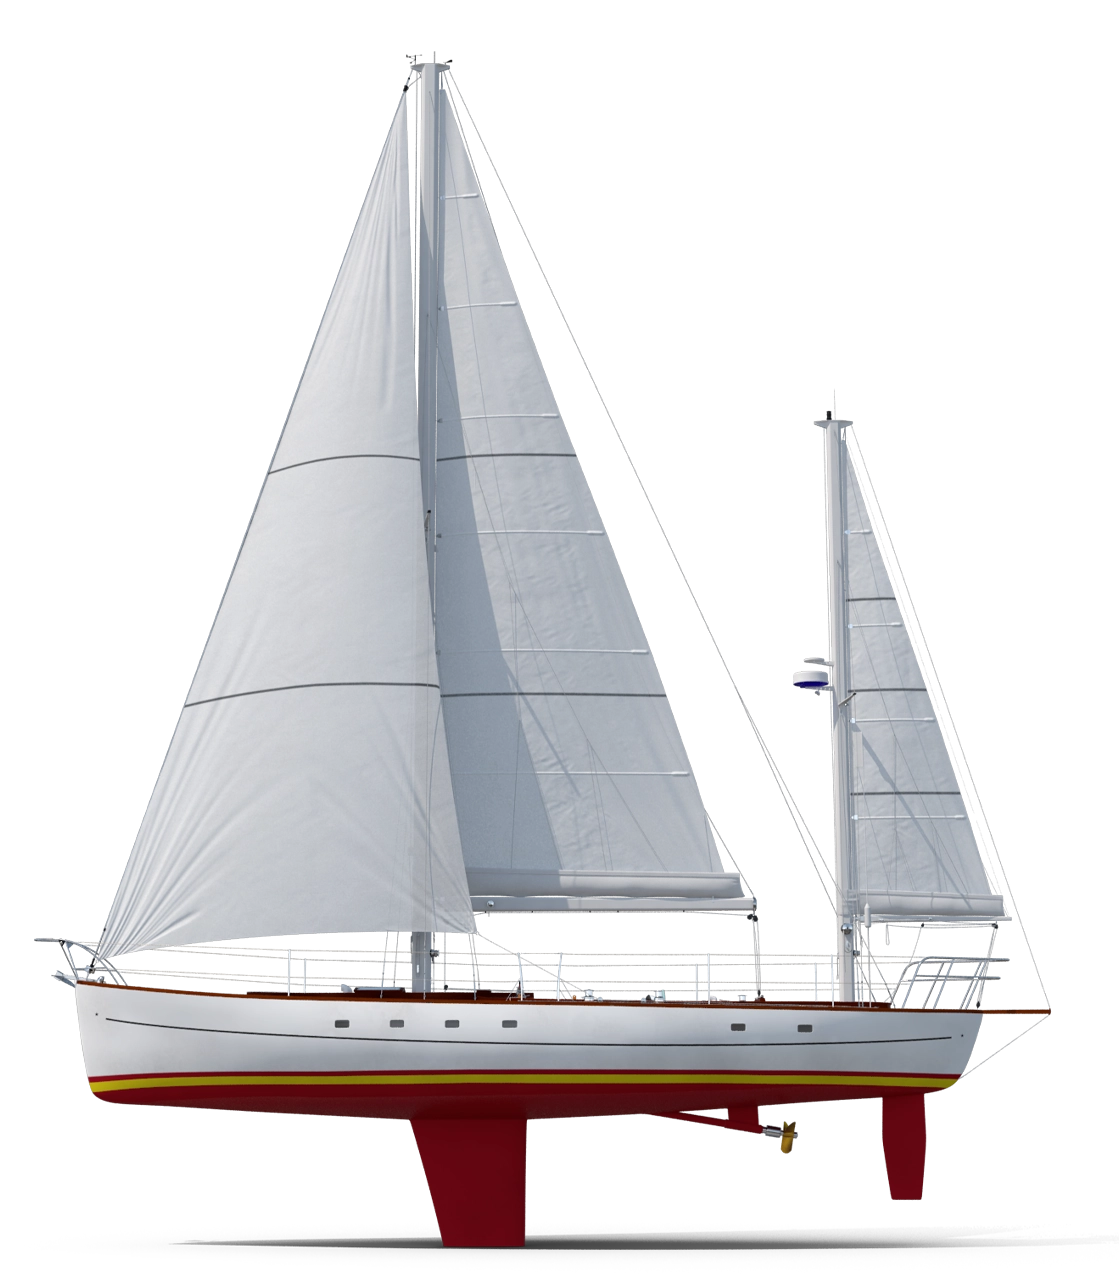
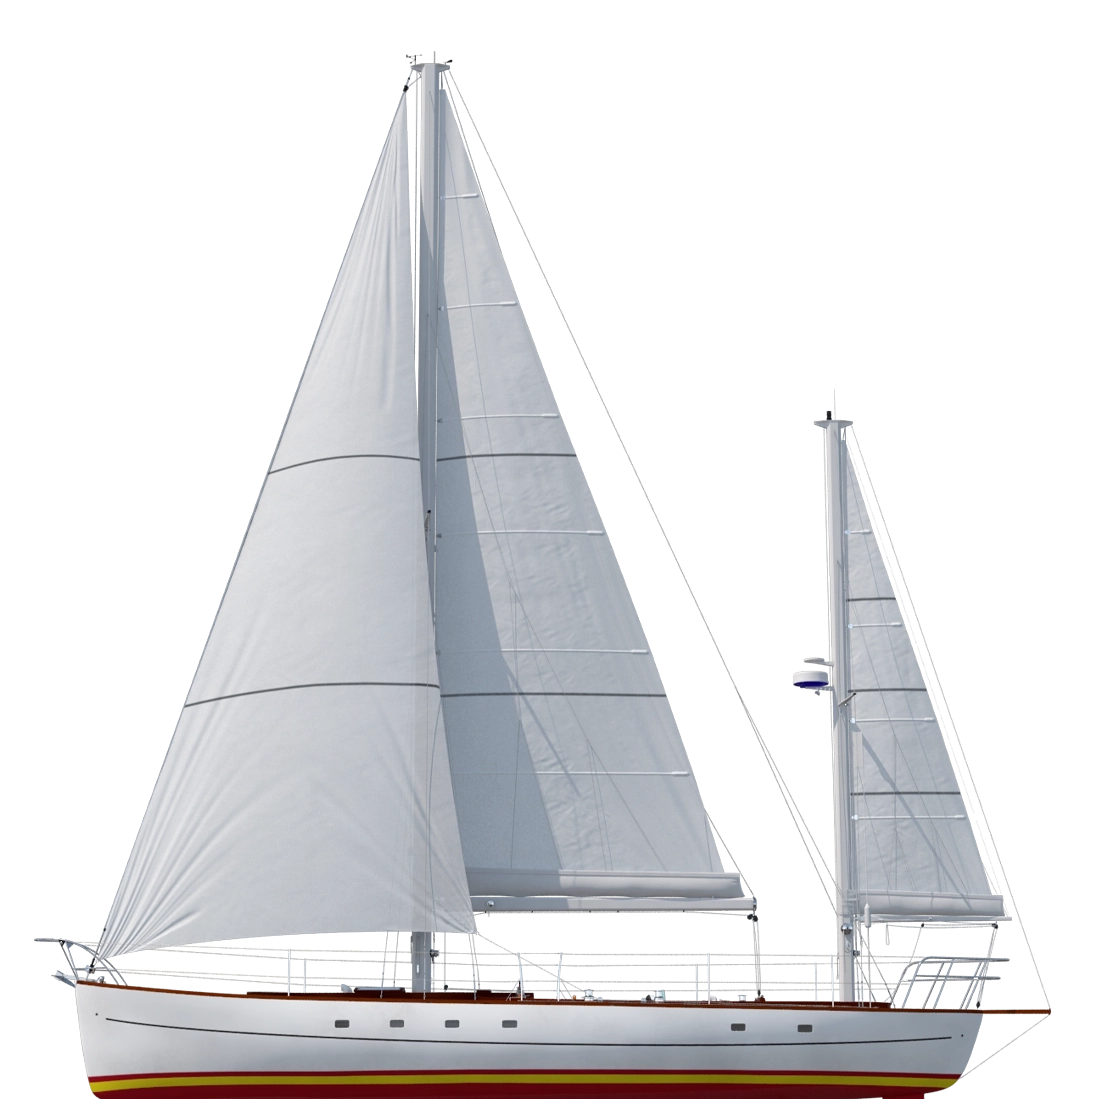
animate sailboat

Changed region(s): [[0.0304, 0.0309, 0.9419, 1.0]]

diff --git a/src/components/SectionHero.vue b/src/components/SectionHero.vue
@@ -49,13 +49,25 @@ section {
   top: 60vh;
   z-index: 3;
 }
+@keyframes sail {
+  0% {
+    transform: translateX(100%);
+  }
+  100% {
+    transform: translateX(-100vw);
+  }
+}
 
 .sailboat {
   position: absolute;
-  top: 15vh;
+  bottom: 21vh;
   z-index: 1;
+  right: 0;
+  animation: sail 10s infinite linear;
+
   @include bp.devicebreak(medium) {
     height: 70vh;
+    animation-duration: 25s;
   }
   img {
     height: 100%;
